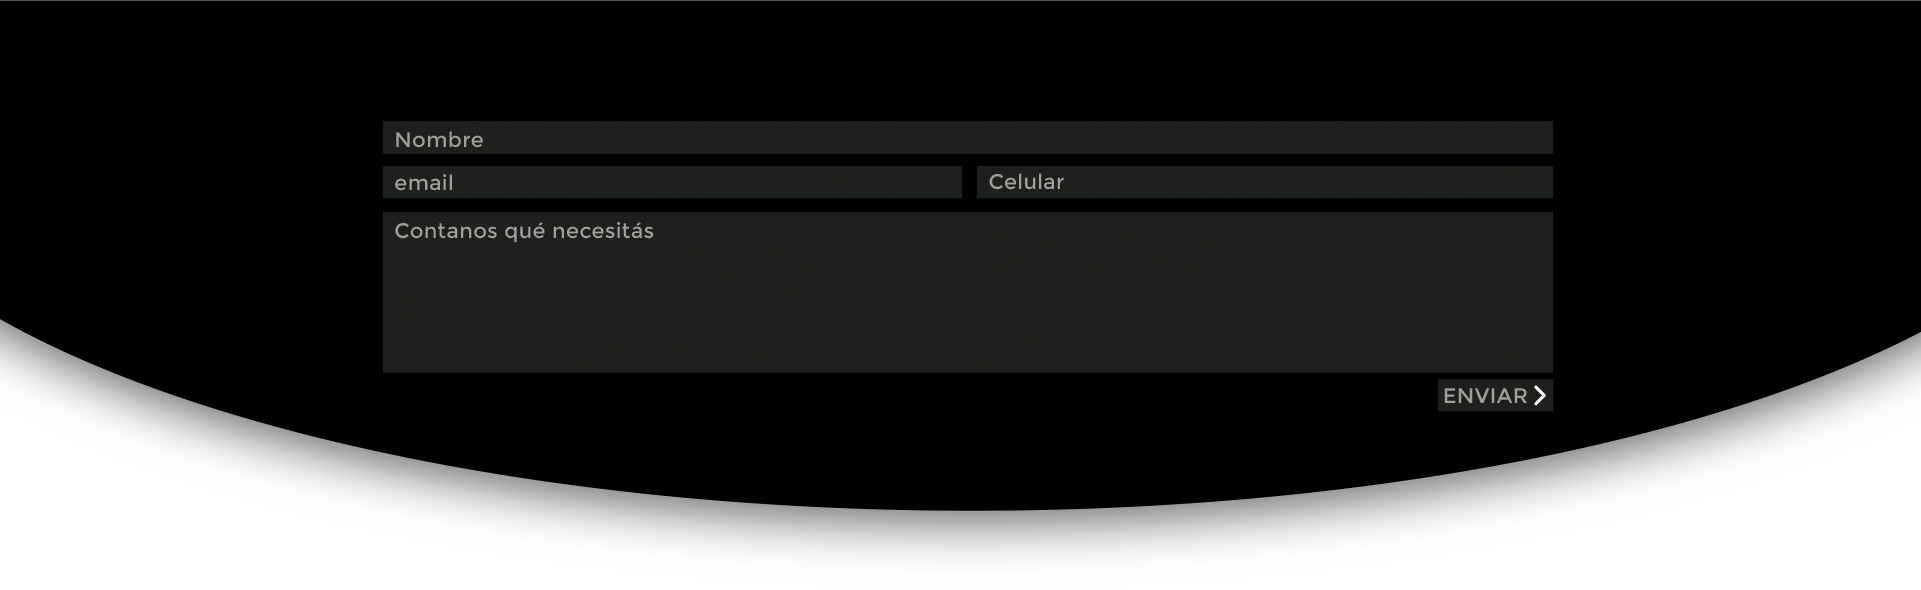
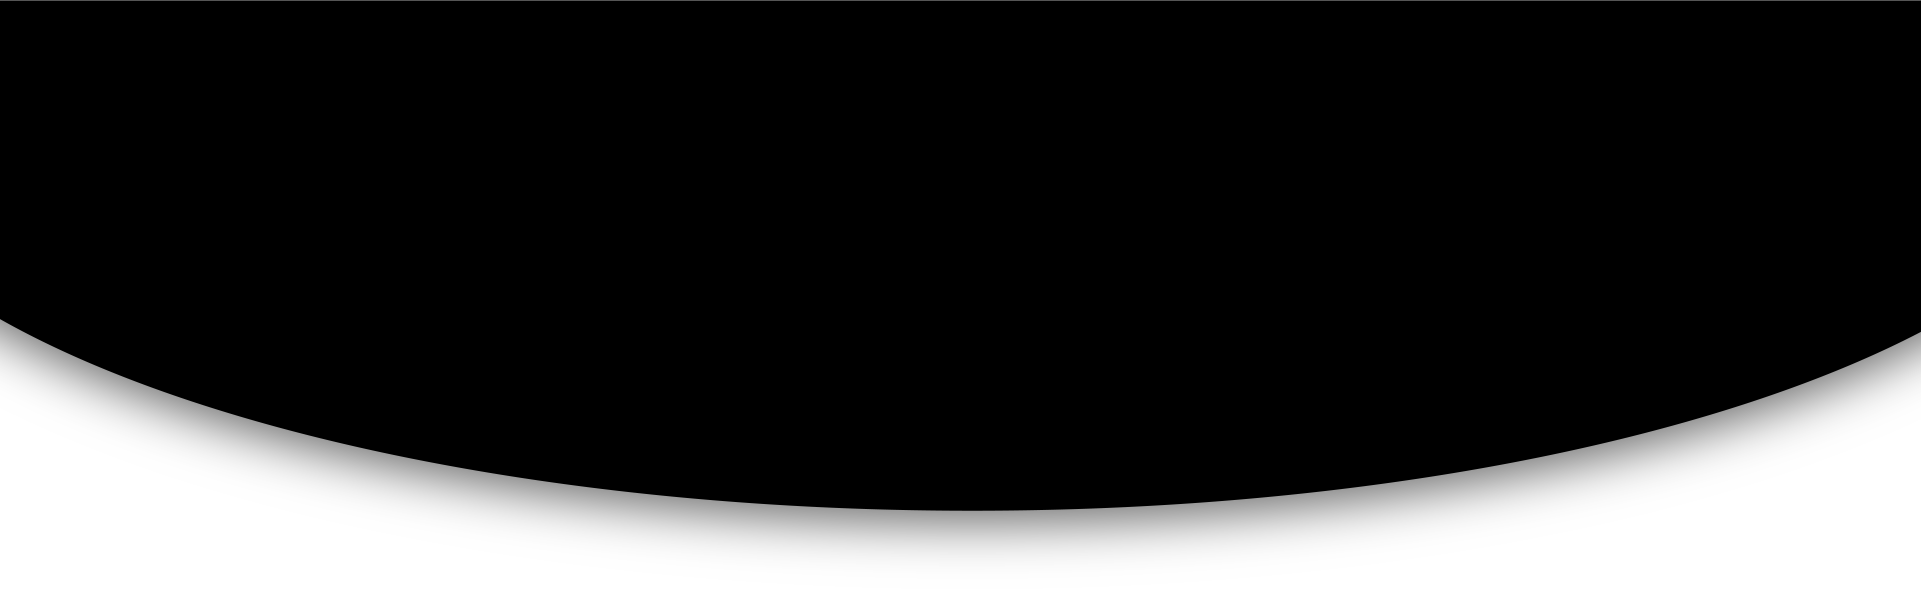
Update

Changed region(s): [[0.1874, 0.1831, 0.8121, 0.7017]]

diff --git a/css/style.css b/css/style.css
@@ -149,16 +149,6 @@ body {
 .loans div.col-4:nth-child(3) h6 {
     text-align: left;
 }
-.about {
-    /*position: relative;*/
-    /*
-    background: url(../img/about.png) no-repeat center center; 
-    -webkit-background-size: cover;
-    -moz-background-size: cover;
-    -o-background-size: cover;
-    background-size: cover;
-    */
-}
 .about div {
     position: relative;
 }
@@ -233,6 +223,24 @@ body {
     margin-right: auto;
 }
 
+.contact input[type=text], .contact input[type=email], .contact textarea {
+    display: table;
+    margin: 0 auto;
+    border-radius: 0;
+    border: none;
+    background-color: #1c1f1b;
+    font-weight: bold;
+    color: white;
+}
+.contact input[type=text]:focus, .contact input[type=email]:focus, .contact textarea:focus {
+    box-shadow:  0 0 0.25rem #a39e9c; 
+    border-color: 1px solid #a39e9c;
+    background-color: #1c1f1b;
+    opacity: .9;
+}
+.contact input[type=text]::placeholder, .contact input[type=email]::placeholder, .contact textarea::placeholder {
+    color: #a39e9c;
+}
 @media only screen and (max-width: 599px) {
 
     .top {
@@ -399,11 +407,26 @@ body {
         left: -17vw;
     }
     .contact {
-        min-height: 48.5vw;
+        min-height: 65vw;
     }
     .contact div.col-12 h4 {
         font-size: 2.75vw;
         top: 3.7vw;
+    }
+    .contact input[type=text], .contact input[type=email], .contact textarea {
+        font-size: 2vw;
+    }
+    .contact .row:nth-child(1) input[type=text] {
+        margin-top: 9.5vw;
+    }
+    .contact .row:nth-child(2) input[type=email] {
+        margin-top: .9vw;
+    }
+    .contact .row:nth-child(2) input[type=text] {
+        margin-top: .9vw;
+    }
+    .contact .row:nth-child(3) textarea {
+        margin-top: .9vw;
     }
 }
 
@@ -570,11 +593,26 @@ body {
         left: -12.1vw;
     }
     .contact {
-        min-height: 48.5vw;
+        min-height: 52vw;
     }
     .contact div.col-12 h4 {
         font-size: 2.5vw;
         top: 3.7vw;
+    }
+    .contact input[type=text], .contact input[type=email], .contact textarea {
+        font-size: 1.75vw;
+    }
+    .contact .row:nth-child(1) input[type=text] {
+        margin-top: 9vw;
+    }
+    .contact .row:nth-child(2) input[type=email] {
+        margin-top: .7vw;
+    }
+    .contact .row:nth-child(2) input[type=text] {
+        margin-top: .7vw;
+    }
+    .contact .row:nth-child(3) textarea {
+        margin-top: .7vw;
     }
 }
 /* Medium devices (landscape tablets, 768px and up) */
@@ -740,6 +778,27 @@ body {
         font-size: 1.9vw;
         top: 2.7vw;
     }
+    .contact input[type=text], .contact input[type=email], .contact textarea {
+        font-size: 1.5vw;
+    }
+    .contact .row:nth-child(2) .col-md-4:nth-child(1) {
+        padding-right: .35vw;
+    }
+    .contact .row:nth-child(2) .col-md-4:nth-child(2) {
+        padding-left: .35vw;
+    }
+    .contact .row:nth-child(1) input[type=text] {
+        margin-top: 7vw;
+    }
+    .contact .row:nth-child(2) input[type=email] {
+        margin-top: .7vw;
+    }
+    .contact .row:nth-child(2) input[type=text] {
+        margin-top: .7vw;
+    }
+    .contact .row:nth-child(3) textarea {
+        margin-top: .7vw;
+    }
 }
   /* Large devices (laptops/desktops, 992px and up) */
 @media only screen and (min-width: 992px) {
@@ -904,6 +963,27 @@ body {
         font-size: 1.49vw;
         top: 2vw;
     }
+    .contact input[type=text], .contact input[type=email], .contact textarea {
+        font-size: 1vw;
+    }
+    .contact .row:nth-child(2) .col-md-4:nth-child(1) {
+        padding-right: .35vw;
+    }
+    .contact .row:nth-child(2) .col-md-4:nth-child(2) {
+        padding-left: .35vw;
+    }
+    .contact .row:nth-child(1) input[type=text] {
+        margin-top: 6vw;
+    }
+    .contact .row:nth-child(2) input[type=email] {
+        margin-top: .7vw;
+    }
+    .contact .row:nth-child(2) input[type=text] {
+        margin-top: .7vw;
+    }
+    .contact .row:nth-child(3) textarea {
+        margin-top: .7vw;
+    }
 
 }
 /* Extra large devices (large laptops and desktops, 1200px and up) */
@@ -1066,6 +1146,27 @@ body {
     .contact div.col-12 h4 {
         font-size: 1.49vw;
         top: 2vw;
+    }
+    .contact input[type=text], .contact input[type=email], .contact textarea {
+        font-size: 1vw;
+    }
+    .contact .row:nth-child(2) .col-md-4:nth-child(1) {
+        padding-right: .35vw;
+    }
+    .contact .row:nth-child(2) .col-md-4:nth-child(2) {
+        padding-left: .35vw;
+    }
+    .contact .row:nth-child(1) input[type=text] {
+        margin-top: 6vw;
+    }
+    .contact .row:nth-child(2) input[type=email] {
+        margin-top: .7vw;
+    }
+    .contact .row:nth-child(2) input[type=text] {
+        margin-top: .7vw;
+    }
+    .contact .row:nth-child(3) textarea {
+        margin-top: .7vw;
     }
     
 }

diff --git a/index.html b/index.html
@@ -186,6 +186,26 @@
         <h4>ESCRIBINOS Y TE LLAMAMOS</h4>
       </div>
     </div>
+    <div class="container">
+      <div class="row">
+        <div class="col-md-8 offset-md-2">
+          <input type="text" class="form-control form-control-sm" placeholder="Nombre">
+        </div>
+      </div>
+      <div class="row">
+        <div class="col-md-4 offset-md-2">
+          <input type="email" class="form-control form-control-sm" placeholder="email">
+        </div>
+        <div class="col-md-4">
+          <input type="text" class="form-control form-control-sm" placeholder="Celular">
+        </div>
+      </div>
+      <div class="row">
+        <div class="col-md-8 offset-md-2">
+          <textarea class="form-control" placeholder="Contanos qué necesitás" rows="4"></textarea>
+        </div>
+      </div>
+    </div>
   </div>
 
   <div style="background: blue; min-height: 200px;"></div>
